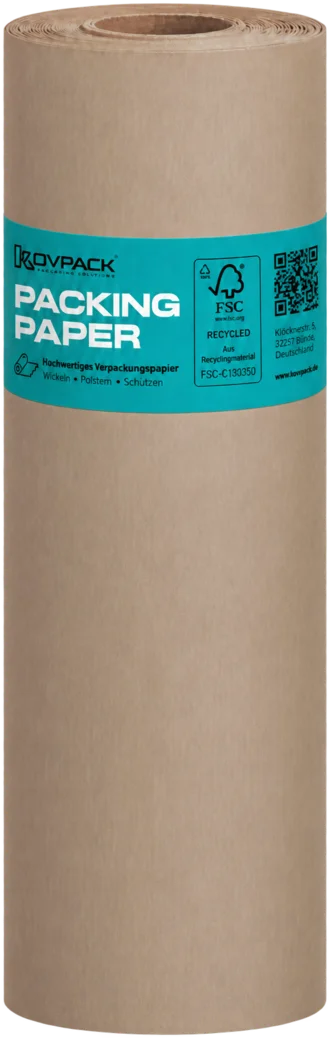
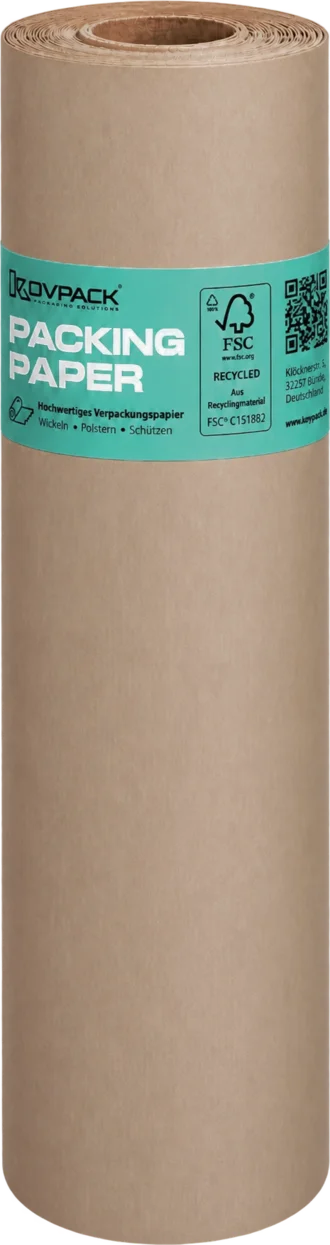
Update design preview from 49115a1

Changed region(s): [[0.0, 0.0, 1.0, 1.0], [0.303, 0.9865, 0.697, 1.0]]

diff --git a/de/index.html b/de/index.html
@@ -1159,7 +1159,7 @@ was sie versprechen.</h1>
                     </div>
                 </div>
                 <div class="kovpack-shelf__roll" aria-hidden="true">
-                    <img loading="lazy" src="../typo3temp/assets/_processed_/b/9/csm_kovpack-roll-standing-blue_092a7bc202.webp" width="330" height="1038" alt="" />
+                    <img loading="lazy" src="../typo3temp/assets/_processed_/b/9/csm_kovpack-roll-standing-blue_092a7bc202.webp" width="330" height="1245" alt="" />
                 </div>
             </article>
         </template>
@@ -1374,7 +1374,7 @@ was sie versprechen.</h1>
                     </div>
                 </div>
                 <div class="kovpack-shelf__roll" aria-hidden="true">
-                    <img loading="lazy" src="../typo3temp/assets/_processed_/5/0/csm_kovpack-roll-standing-teal_ba4f1c12cc.webp" width="330" height="1038" alt="" />
+                    <img loading="lazy" src="../typo3temp/assets/_processed_/5/0/csm_kovpack-roll-standing-teal_ba4f1c12cc.webp" width="330" height="1245" alt="" />
                 </div>
             </article>
         </template>
@@ -1597,7 +1597,7 @@ was sie versprechen.</h1>
                     </div>
                 </div>
                 <div class="kovpack-shelf__roll" aria-hidden="true">
-                    <img loading="lazy" src="../typo3temp/assets/_processed_/6/b/csm_kovpack-roll-standing-orange_667c2517cc.webp" width="330" height="1038" alt="" />
+                    <img loading="lazy" src="../typo3temp/assets/_processed_/6/b/csm_kovpack-roll-standing-orange_667c2517cc.webp" width="330" height="1245" alt="" />
                 </div>
             </article>
         </template>
@@ -1929,7 +1929,7 @@ was sie versprechen.</h1>
     
 
     <form data-offline-demo id="kovpack-demo-contact-de-65" enctype="multipart/form-data" action="#" method="post">
[2 lines of base64/hex data omitted]
 </div>
 
         
@@ -2049,6 +2049,13 @@ was sie versprechen.</h1>
     
         
 
+        <input aria-hidden="true" data-id="zhXZ0G8DIQd91a2cVCHtjWuMN" id="kovpack-demo-contact-de-65-zhXZ0G8DIQd91a2cVCHtjWuMN" class="form-control" tabindex="-1" style="position:absolute; margin:0 0 0 -999em;" type="text" name="tx_form_formframework[kovpack-demo-contact-de-65][zhXZ0G8DIQd91a2cVCHtjWuMN]" />
+    
+
+
+    
+        
+
     
         
         
@@ -2078,13 +2085,6 @@ was sie versprechen.</h1>
 
     
 
-
-
-    
-        
-
-        <input aria-hidden="true" data-id="9rRfne16X0NMD" id="kovpack-demo-contact-de-65-9rRfne16X0NMD" class="form-control" tabindex="-1" style="position:absolute; margin:0 0 0 -999em;" type="text" name="tx_form_formframework[kovpack-demo-contact-de-65][9rRfne16X0NMD]" />
-    
 
 
     

diff --git a/en/index.html b/en/index.html
@@ -1158,7 +1158,7 @@
                     </div>
                 </div>
                 <div class="kovpack-shelf__roll" aria-hidden="true">
-                    <img loading="lazy" src="../typo3temp/assets/_processed_/b/9/csm_kovpack-roll-standing-blue_092a7bc202.webp" width="330" height="1038" alt="" />
+                    <img loading="lazy" src="../typo3temp/assets/_processed_/b/9/csm_kovpack-roll-standing-blue_092a7bc202.webp" width="330" height="1245" alt="" />
                 </div>
             </article>
         </template>
@@ -1373,7 +1373,7 @@
                     </div>
                 </div>
                 <div class="kovpack-shelf__roll" aria-hidden="true">
-                    <img loading="lazy" src="../typo3temp/assets/_processed_/5/0/csm_kovpack-roll-standing-teal_ba4f1c12cc.webp" width="330" height="1038" alt="" />
+                    <img loading="lazy" src="../typo3temp/assets/_processed_/5/0/csm_kovpack-roll-standing-teal_ba4f1c12cc.webp" width="330" height="1245" alt="" />
                 </div>
             </article>
         </template>
@@ -1596,7 +1596,7 @@
                     </div>
                 </div>
                 <div class="kovpack-shelf__roll" aria-hidden="true">
-                    <img loading="lazy" src="../typo3temp/assets/_processed_/6/b/csm_kovpack-roll-standing-orange_667c2517cc.webp" width="330" height="1038" alt="" />
+                    <img loading="lazy" src="../typo3temp/assets/_processed_/6/b/csm_kovpack-roll-standing-orange_667c2517cc.webp" width="330" height="1245" alt="" />
                 </div>
             </article>
         </template>
@@ -1928,7 +1928,7 @@ your project.
     
 
     <form data-offline-demo id="kovpack-demo-contact-en-65" enctype="multipart/form-data" action="#" method="post">
[2 lines of base64/hex data omitted]
 </div>
 
         
@@ -1971,13 +1971,6 @@ your project.
 
     
 
-
-
-    
-        
-
-        <input aria-hidden="true" data-id="QS4DfpeNK21" id="kovpack-demo-contact-en-65-QS4DfpeNK21" class="form-control" tabindex="-1" style="position:absolute; margin:0 0 0 -999em;" type="text" name="tx_form_formframework[kovpack-demo-contact-en-65][QS4DfpeNK21]" />
-    
 
 
     
@@ -2123,6 +2116,13 @@ your project.
 
     
 
+
+
+    
+        
+
+        <input aria-hidden="true" data-id="QlVAgJHW2c13IwRzm" id="kovpack-demo-contact-en-65-QlVAgJHW2c13IwRzm" class="form-control" tabindex="-1" style="position:absolute; margin:0 0 0 -999em;" type="text" name="tx_form_formframework[kovpack-demo-contact-en-65][QlVAgJHW2c13IwRzm]" />
+    
 
 
     

diff --git a/de/produkte.html b/de/produkte.html
@@ -927,7 +927,7 @@
                     </div>
                 </div>
                 <div class="kovpack-shelf__roll" aria-hidden="true">
-                    <img loading="lazy" src="../typo3temp/assets/_processed_/b/9/csm_kovpack-roll-standing-blue_092a7bc202.webp" width="330" height="1038" alt="" />
+                    <img loading="lazy" src="../typo3temp/assets/_processed_/b/9/csm_kovpack-roll-standing-blue_092a7bc202.webp" width="330" height="1245" alt="" />
                 </div>
             </article>
         </template>
@@ -1142,7 +1142,7 @@
                     </div>
                 </div>
                 <div class="kovpack-shelf__roll" aria-hidden="true">
-                    <img loading="lazy" src="../typo3temp/assets/_processed_/5/0/csm_kovpack-roll-standing-teal_ba4f1c12cc.webp" width="330" height="1038" alt="" />
+                    <img loading="lazy" src="../typo3temp/assets/_processed_/5/0/csm_kovpack-roll-standing-teal_ba4f1c12cc.webp" width="330" height="1245" alt="" />
                 </div>
             </article>
         </template>
@@ -1365,7 +1365,7 @@
                     </div>
                 </div>
                 <div class="kovpack-shelf__roll" aria-hidden="true">
-                    <img loading="lazy" src="../typo3temp/assets/_processed_/6/b/csm_kovpack-roll-standing-orange_667c2517cc.webp" width="330" height="1038" alt="" />
+                    <img loading="lazy" src="../typo3temp/assets/_processed_/6/b/csm_kovpack-roll-standing-orange_667c2517cc.webp" width="330" height="1245" alt="" />
                 </div>
             </article>
         </template>

diff --git a/en/products.html b/en/products.html
@@ -927,7 +927,7 @@
                     </div>
                 </div>
                 <div class="kovpack-shelf__roll" aria-hidden="true">
-                    <img loading="lazy" src="../typo3temp/assets/_processed_/b/9/csm_kovpack-roll-standing-blue_092a7bc202.webp" width="330" height="1038" alt="" />
+                    <img loading="lazy" src="../typo3temp/assets/_processed_/b/9/csm_kovpack-roll-standing-blue_092a7bc202.webp" width="330" height="1245" alt="" />
                 </div>
             </article>
         </template>
@@ -1142,7 +1142,7 @@
                     </div>
                 </div>
                 <div class="kovpack-shelf__roll" aria-hidden="true">
-                    <img loading="lazy" src="../typo3temp/assets/_processed_/5/0/csm_kovpack-roll-standing-teal_ba4f1c12cc.webp" width="330" height="1038" alt="" />
+                    <img loading="lazy" src="../typo3temp/assets/_processed_/5/0/csm_kovpack-roll-standing-teal_ba4f1c12cc.webp" width="330" height="1245" alt="" />
                 </div>
             </article>
         </template>
@@ -1365,7 +1365,7 @@
                     </div>
                 </div>
                 <div class="kovpack-shelf__roll" aria-hidden="true">
-                    <img loading="lazy" src="../typo3temp/assets/_processed_/6/b/csm_kovpack-roll-standing-orange_667c2517cc.webp" width="330" height="1038" alt="" />
+                    <img loading="lazy" src="../typo3temp/assets/_processed_/6/b/csm_kovpack-roll-standing-orange_667c2517cc.webp" width="330" height="1245" alt="" />
                 </div>
             </article>
         </template>
